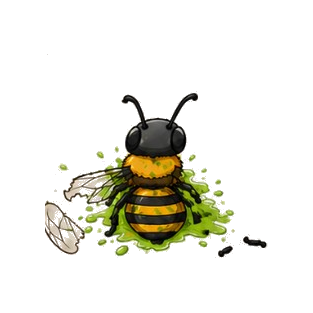
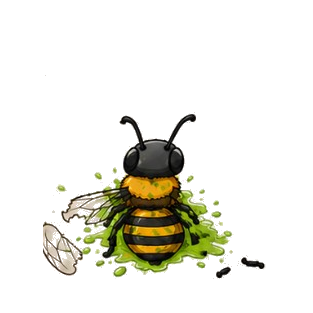
Align smashed bee sprite with live bee orientation and body center.
Preserve flight angle and bob offset on death so the crush transition is seamless.

Changed region(s): [[0.115, 0.2875, 0.8626, 0.8914], [0.1725, 0.5176, 0.23, 0.5463]]

diff --git a/lib/enemies/smashed_bee.dart b/lib/enemies/smashed_bee.dart
@@ -4,8 +4,11 @@ import 'package:flame/effects.dart';
 import '../game/ant_smasher_game.dart';
 
 class SmashedBee extends SpriteComponent with HasGameReference<AntSmasherGame> {
-  SmashedBee({required super.position, required super.size})
-    : super(anchor: Anchor.center, priority: 5);
+  SmashedBee({
+    required super.position,
+    required super.size,
+    required super.angle,
+  }) : super(anchor: Anchor.center, priority: 5);
 
   static const double _fadeDuration = 0.9;
 

diff --git a/lib/enemies/bee_lifecycle.dart b/lib/enemies/bee_lifecycle.dart
@@ -1,3 +1,5 @@
+import 'package:flame/components.dart';
+
 import 'bee_enemy.dart';
 import 'smashed_bee.dart';
 
@@ -13,8 +15,9 @@ abstract final class BeeLifecycle {
 
     game.add(
       SmashedBee(
-        position: bee.position.clone(),
+        position: bee.position + Vector2(0, bee.bobOffset),
         size: bee.size.clone(),
+        angle: bee.angle,
       ),
     );
     game.registerBeeHit(bee);

diff --git a/lib/enemies/bee_enemy.dart b/lib/enemies/bee_enemy.dart
@@ -54,6 +54,9 @@ class BeeEnemy extends SpriteAnimationComponent with TapCallbacks {
 
   int get points => isBoss ? 5 : 3;
 
+  /// Vertical draw offset applied in [render]; used when spawning death sprite.
+  double get bobOffset => _bobOffset;
+
   AntSmasherGame get gameRef => findGame()! as AntSmasherGame;
 
   static double _initialHeading(Random random) {

diff --git a/scripts/extract_bee_smashed.py b/scripts/extract_bee_smashed.py
@@ -62,6 +62,24 @@ def parse_args() -> argparse.Namespace:
         default=28,
         help="Background color distance threshold (higher = more aggressive)",
     )
+    parser.add_argument(
+        "--fly-sheet",
+        type=Path,
+        default=root / "assets/images/bee_fly_sheet.png",
+        help="Live bee fly sheet used to align body center",
+    )
+    parser.add_argument(
+        "--fly-start-frame",
+        type=int,
+        default=0,
+        help="First fly frame index used for center alignment",
+    )
+    parser.add_argument(
+        "--fly-frame-count",
+        type=int,
+        default=8,
+        help="Number of fly frames averaged for center alignment",
+    )
     return parser.parse_args()
 
 
@@ -150,11 +168,60 @@ def trim_transparent(image: Image.Image) -> Image.Image:
     return image.crop(bbox)
 
 
-def resize_to_square(image: Image.Image, size: int) -> Image.Image:
+def content_center(image: Image.Image) -> tuple[float, float] | None:
+    alpha = image.getchannel("A")
+    bbox = alpha.getbbox()
+    if bbox is None:
+        return None
+    return ((bbox[0] + bbox[2]) / 2, (bbox[1] + bbox[3]) / 2)
+
+
+def average_content_center(frames: list[Image.Image]) -> tuple[float, float]:
+    centers = [c for frame in frames if (c := content_center(frame)) is not None]
+    if not centers:
+        raise ValueError("No opaque pixels found in reference frames")
+    avg_x = sum(x for x, _ in centers) / len(centers)
+    avg_y = sum(y for _, y in centers) / len(centers)
+    return avg_x, avg_y
+
+
+def load_fly_reference_center(
+    fly_sheet_path: Path,
+    frame_size: int,
+    start_frame: int,
+    frame_count: int,
+) -> tuple[float, float]:
+    sheet = Image.open(fly_sheet_path).convert("RGBA")
+    frames: list[Image.Image] = []
+    for index in range(start_frame, start_frame + frame_count):
+        left = index * frame_size
+        frames.append(sheet.crop((left, 0, left + frame_size, frame_size)))
+    return average_content_center(frames)
+
+
+def resize_to_square(
+    image: Image.Image,
+    size: int,
+    *,
+    content_center_target: tuple[float, float] | None = None,
+) -> Image.Image:
     rgba = image.convert("RGBA")
     canvas = Image.new("RGBA", (size, size), (0, 0, 0, 0))
     rgba.thumbnail((size, size), Image.Resampling.LANCZOS)
-    offset = ((size - rgba.width) // 2, (size - rgba.height) // 2)
+
+    if content_center_target is None:
+        offset = ((size - rgba.width) // 2, (size - rgba.height) // 2)
+    else:
+        source_center = content_center(rgba)
+        if source_center is None:
+            offset = ((size - rgba.width) // 2, (size - rgba.height) // 2)
+        else:
+            target_x, target_y = content_center_target
+            offset = (
+                int(round(target_x - source_center[0])),
+                int(round(target_y - source_center[1])),
+            )
+
     canvas.paste(rgba, offset, rgba)
     return canvas
 
@@ -171,7 +238,17 @@ def main() -> None:
     cropped = crop_frame(sheet, args.frame, args.cols, args.rows)
     cutout = remove_background(cropped, args.bg_threshold)
     trimmed = trim_transparent(cutout)
-    final = resize_to_square(trimmed, args.output_size)
+    reference_center = load_fly_reference_center(
+        args.fly_sheet,
+        args.output_size,
+        args.fly_start_frame,
+        args.fly_frame_count,
+    )
+    final = resize_to_square(
+        trimmed,
+        args.output_size,
+        content_center_target=reference_center,
+    )
     final.save(args.output)
 
     display_size = FRAME_SIZE * BEE_DISPLAY_SCALE
@@ -179,6 +256,12 @@ def main() -> None:
     print(f"Frame:        {args.frame} ({args.cols}x{args.rows} grid)")
     print(f"Cropped:      {cropped.size}")
     print(f"Trimmed:      {trimmed.size}")
+    print(f"Fly center:   ({reference_center[0]:.1f}, {reference_center[1]:.1f})")
+    smashed_center = content_center(final)
+    if smashed_center is not None:
+        print(
+            f"Smashed ctr:  ({smashed_center[0]:.1f}, {smashed_center[1]:.1f})"
+        )
     print(f"Output:       {args.output} ({final.size[0]}x{final.size[1]})")
     print(f"Runtime size: ~{display_size:.1f}px (bee display scale {BEE_DISPLAY_SCALE})")
 